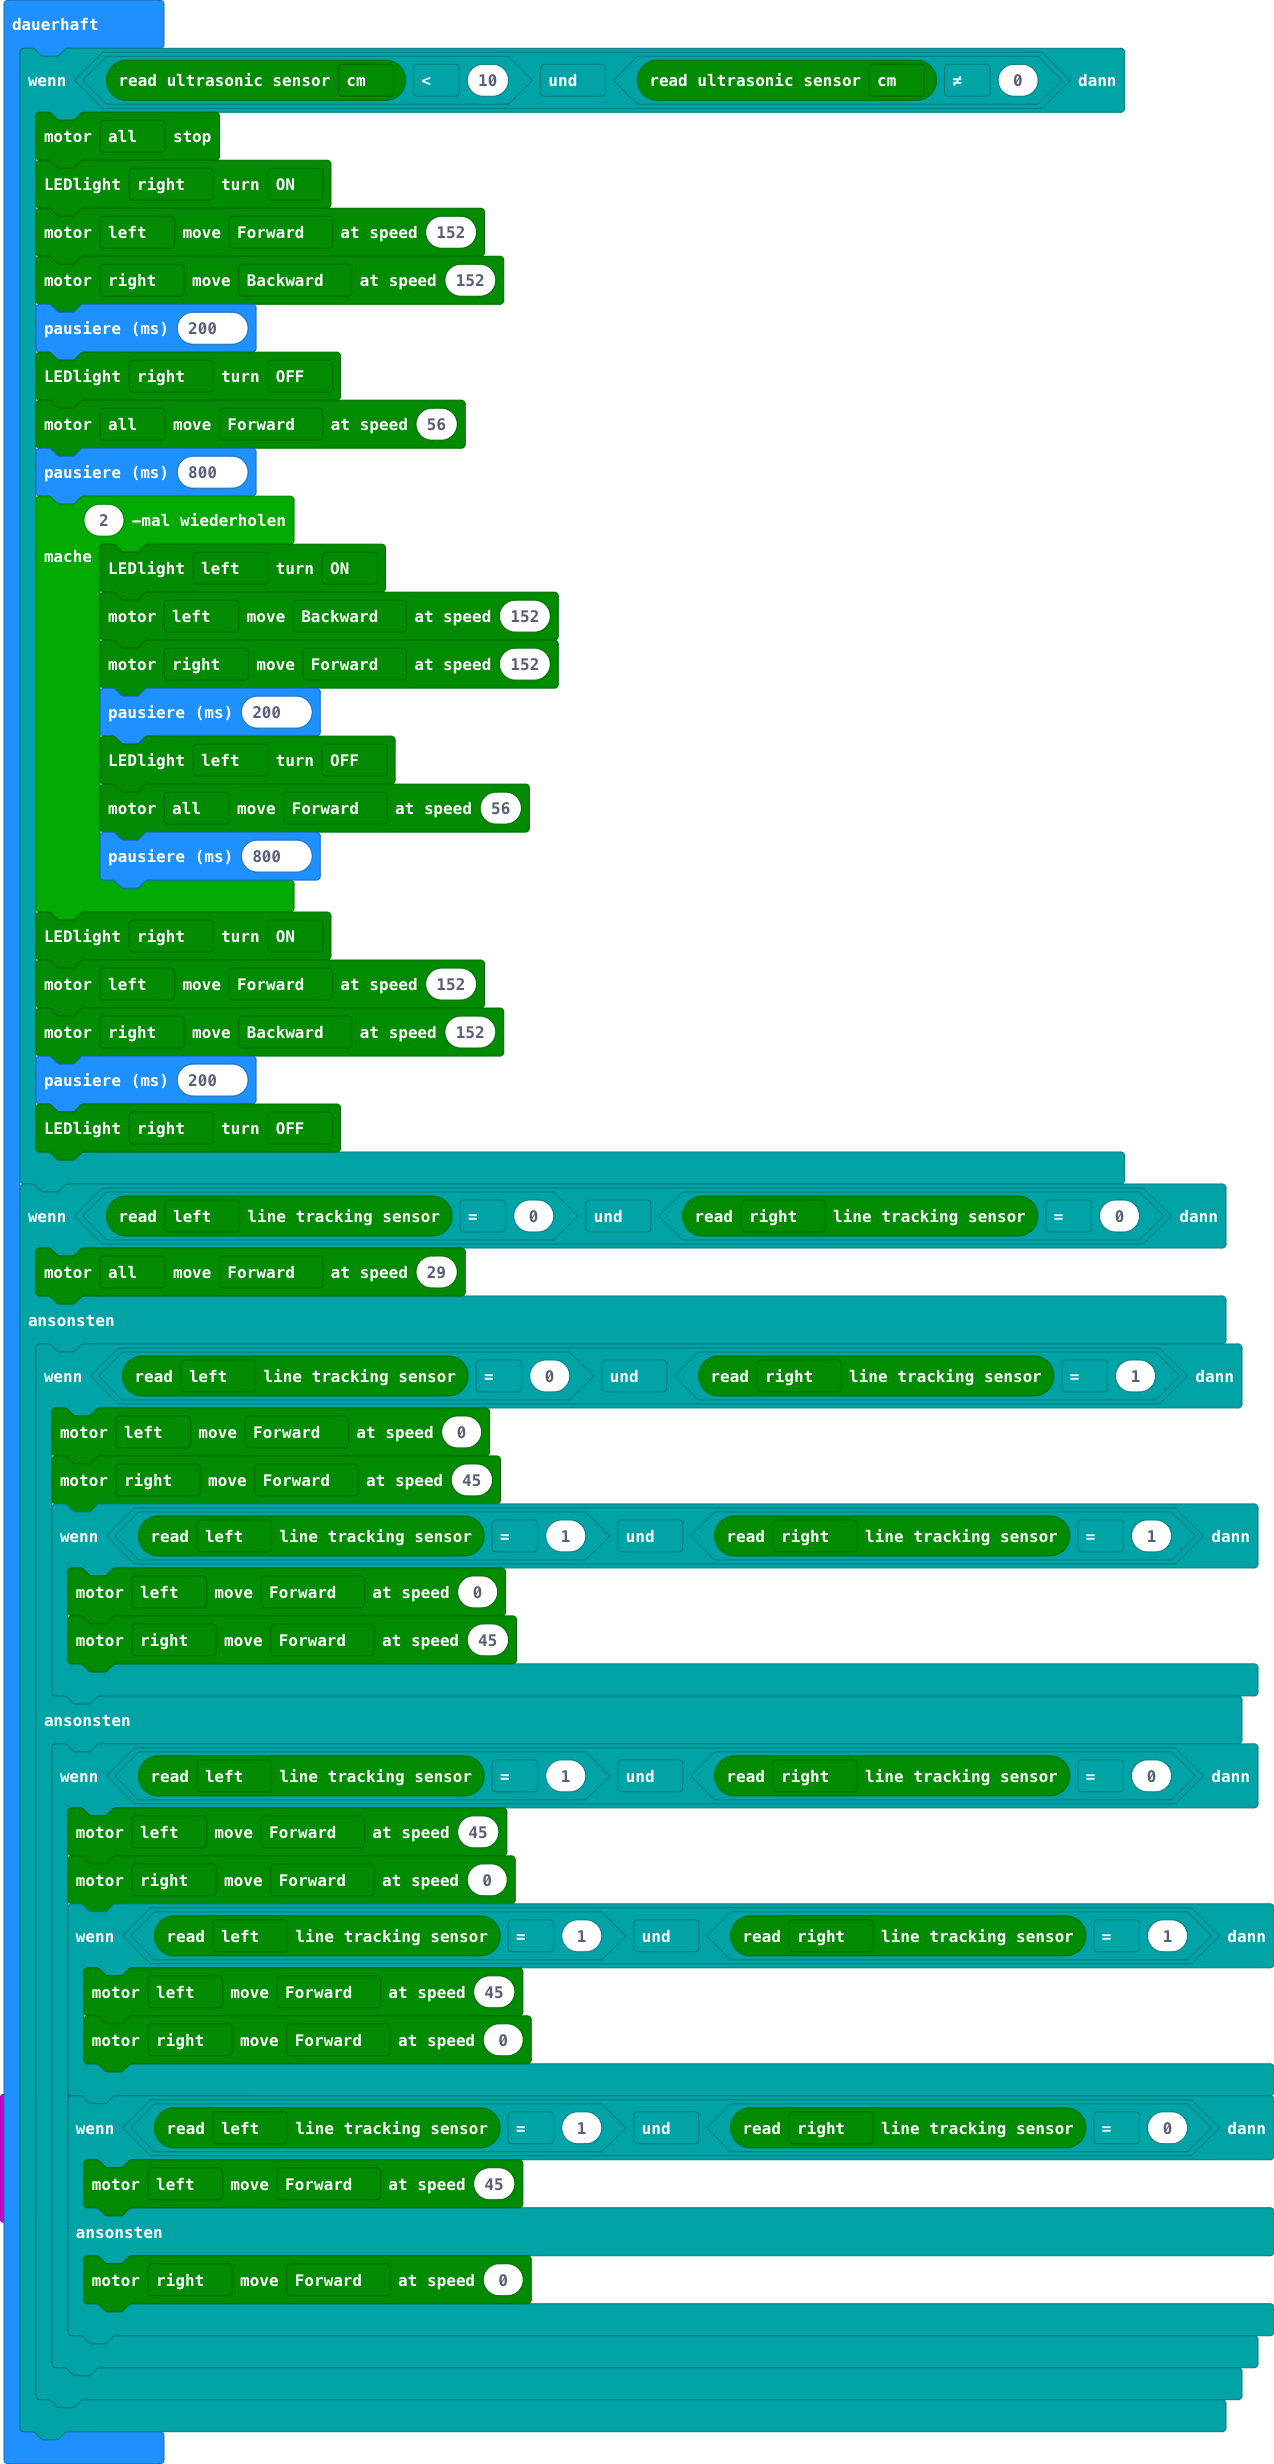
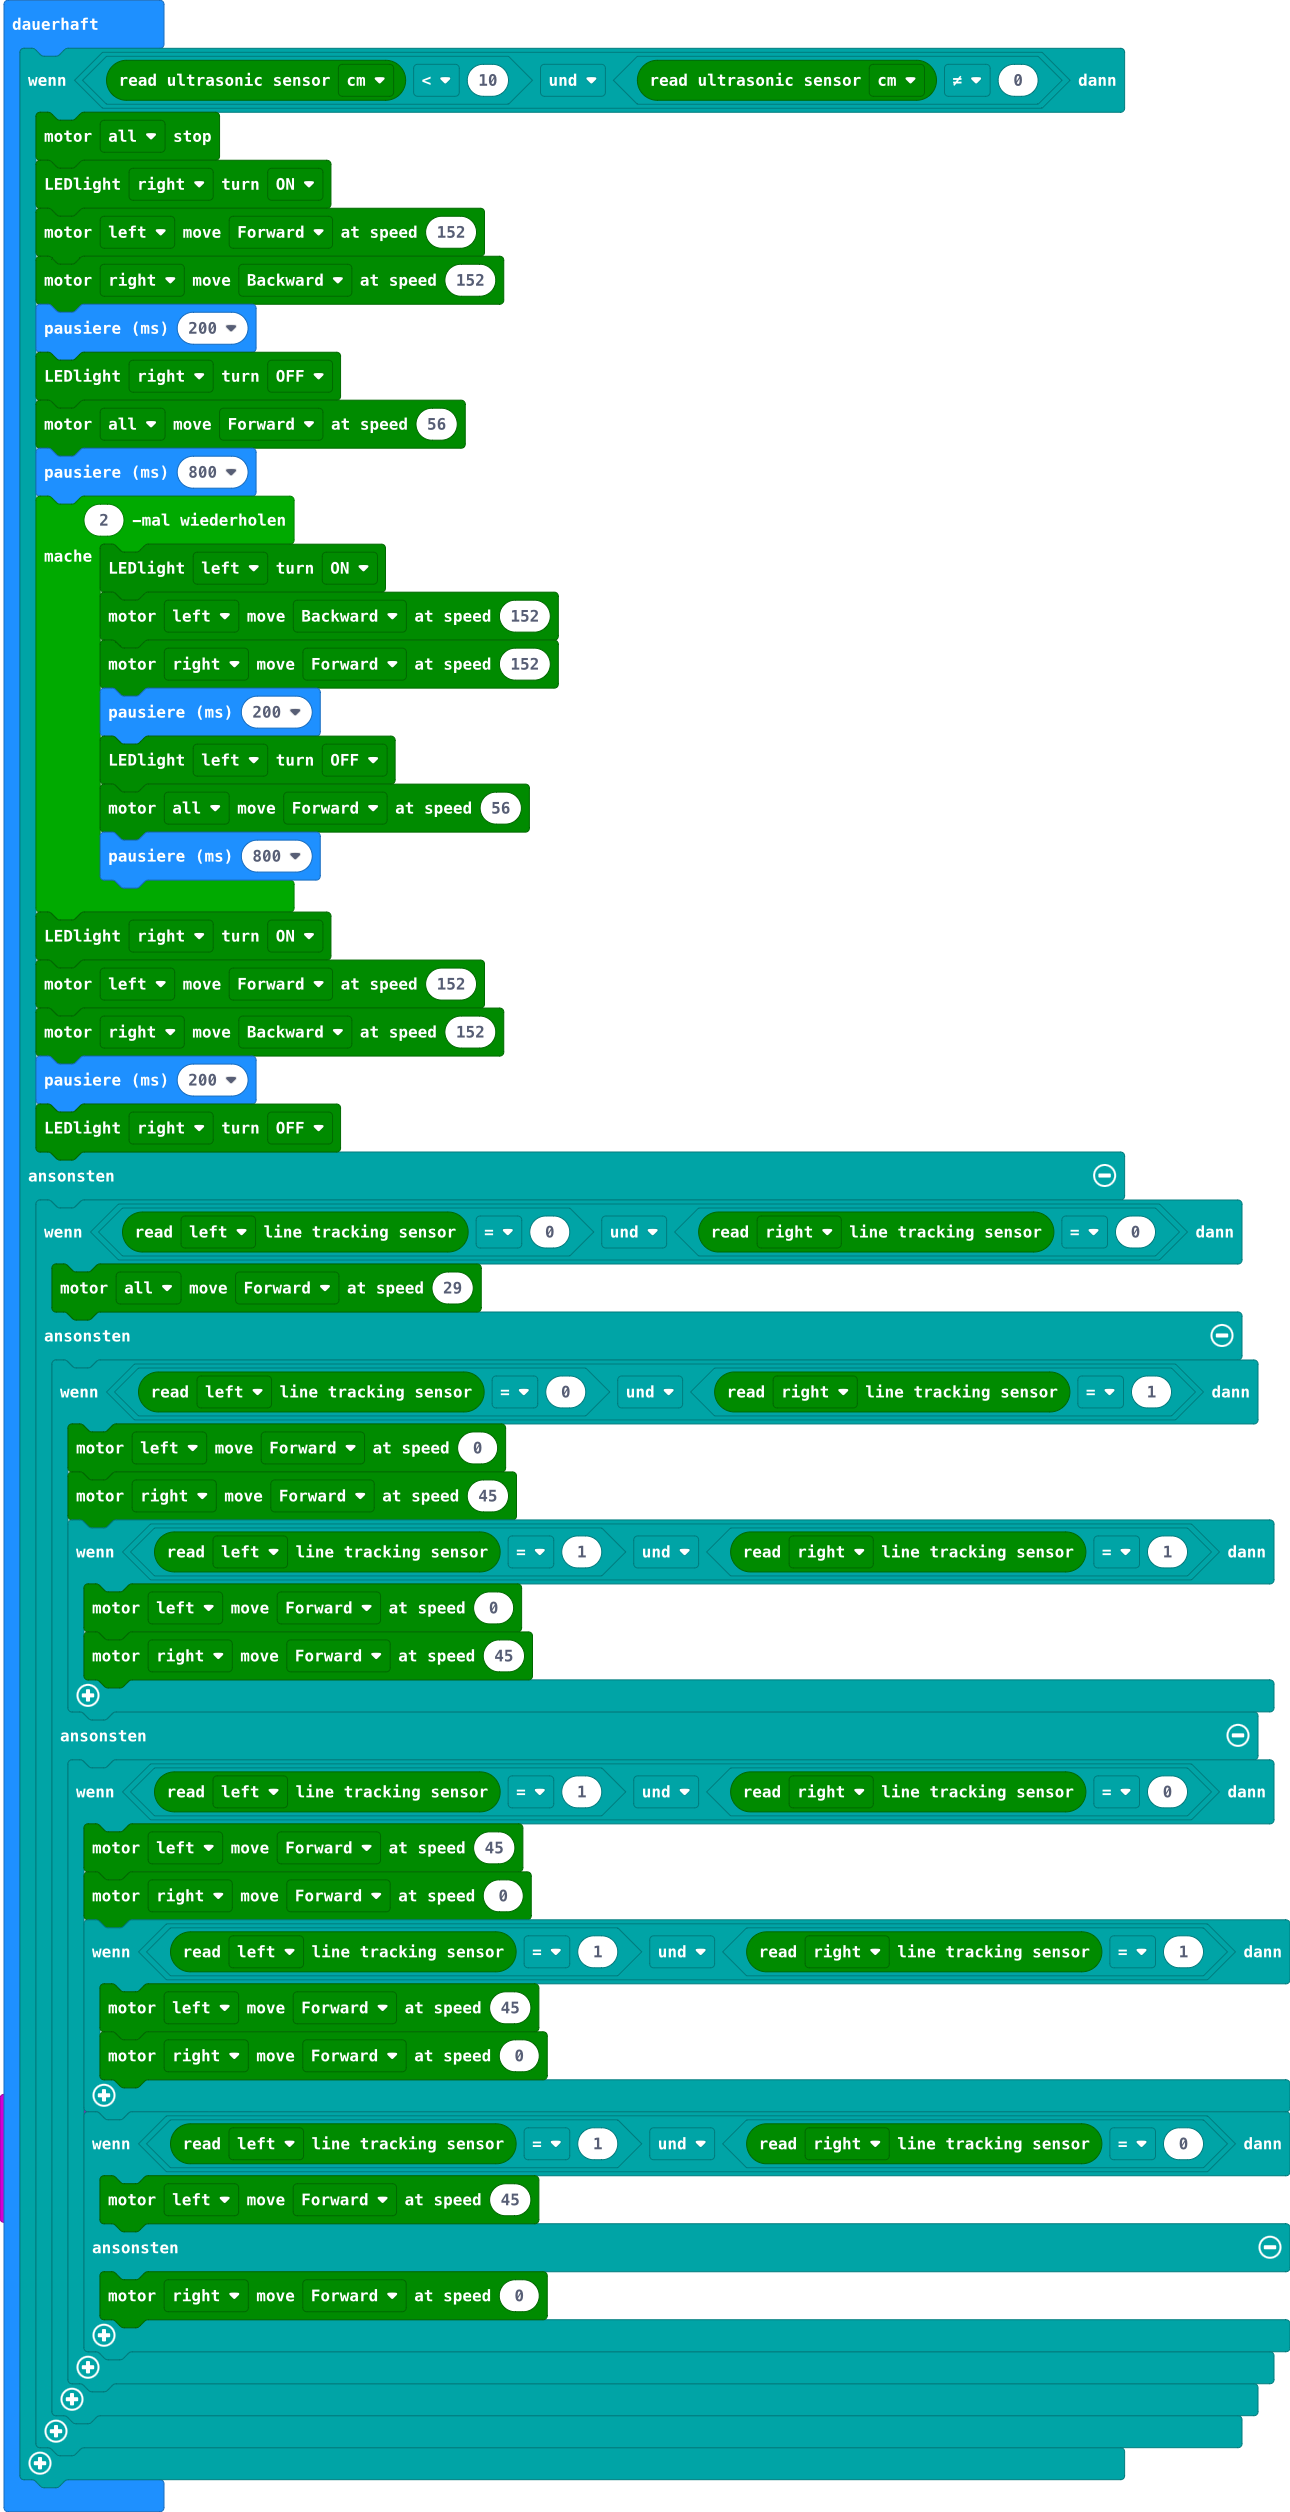
Aktualisiere main.blocks, main.ts

Changed region(s): [[0.0306, 0.0, 1.0, 1.0], [0.4898, 0.0, 0.8878, 0.0625]]

diff --git a/main.ts b/main.ts
@@ -25,29 +25,30 @@ basic.forever(function () {
         maqueen.motorRun(maqueen.Motors.M2, maqueen.Dir.CCW, 152)
         basic.pause(200)
         maqueen.writeLED(maqueen.LED.LEDRight, maqueen.LEDswitch.turnOff)
-    }
-    if (maqueen.readPatrol(maqueen.Patrol.PatrolLeft) == 0 && maqueen.readPatrol(maqueen.Patrol.PatrolRight) == 0) {
-        maqueen.motorRun(maqueen.Motors.All, maqueen.Dir.CW, 29)
     } else {
-        if (maqueen.readPatrol(maqueen.Patrol.PatrolLeft) == 0 && maqueen.readPatrol(maqueen.Patrol.PatrolRight) == 1) {
-            maqueen.motorRun(maqueen.Motors.M1, maqueen.Dir.CW, 0)
-            maqueen.motorRun(maqueen.Motors.M2, maqueen.Dir.CW, 45)
-            if (maqueen.readPatrol(maqueen.Patrol.PatrolLeft) == 1 && maqueen.readPatrol(maqueen.Patrol.PatrolRight) == 1) {
+        if (maqueen.readPatrol(maqueen.Patrol.PatrolLeft) == 0 && maqueen.readPatrol(maqueen.Patrol.PatrolRight) == 0) {
+            maqueen.motorRun(maqueen.Motors.All, maqueen.Dir.CW, 29)
+        } else {
+            if (maqueen.readPatrol(maqueen.Patrol.PatrolLeft) == 0 && maqueen.readPatrol(maqueen.Patrol.PatrolRight) == 1) {
                 maqueen.motorRun(maqueen.Motors.M1, maqueen.Dir.CW, 0)
                 maqueen.motorRun(maqueen.Motors.M2, maqueen.Dir.CW, 45)
-            }
-        } else {
-            if (maqueen.readPatrol(maqueen.Patrol.PatrolLeft) == 1 && maqueen.readPatrol(maqueen.Patrol.PatrolRight) == 0) {
-                maqueen.motorRun(maqueen.Motors.M1, maqueen.Dir.CW, 45)
-                maqueen.motorRun(maqueen.Motors.M2, maqueen.Dir.CW, 0)
                 if (maqueen.readPatrol(maqueen.Patrol.PatrolLeft) == 1 && maqueen.readPatrol(maqueen.Patrol.PatrolRight) == 1) {
-                    maqueen.motorRun(maqueen.Motors.M1, maqueen.Dir.CW, 45)
-                    maqueen.motorRun(maqueen.Motors.M2, maqueen.Dir.CW, 0)
+                    maqueen.motorRun(maqueen.Motors.M1, maqueen.Dir.CW, 0)
+                    maqueen.motorRun(maqueen.Motors.M2, maqueen.Dir.CW, 45)
                 }
+            } else {
                 if (maqueen.readPatrol(maqueen.Patrol.PatrolLeft) == 1 && maqueen.readPatrol(maqueen.Patrol.PatrolRight) == 0) {
                     maqueen.motorRun(maqueen.Motors.M1, maqueen.Dir.CW, 45)
-                } else {
                     maqueen.motorRun(maqueen.Motors.M2, maqueen.Dir.CW, 0)
+                    if (maqueen.readPatrol(maqueen.Patrol.PatrolLeft) == 1 && maqueen.readPatrol(maqueen.Patrol.PatrolRight) == 1) {
+                        maqueen.motorRun(maqueen.Motors.M1, maqueen.Dir.CW, 45)
+                        maqueen.motorRun(maqueen.Motors.M2, maqueen.Dir.CW, 0)
+                    }
+                    if (maqueen.readPatrol(maqueen.Patrol.PatrolLeft) == 1 && maqueen.readPatrol(maqueen.Patrol.PatrolRight) == 0) {
+                        maqueen.motorRun(maqueen.Motors.M1, maqueen.Dir.CW, 45)
+                    } else {
+                        maqueen.motorRun(maqueen.Motors.M2, maqueen.Dir.CW, 0)
+                    }
                 }
             }
         }
